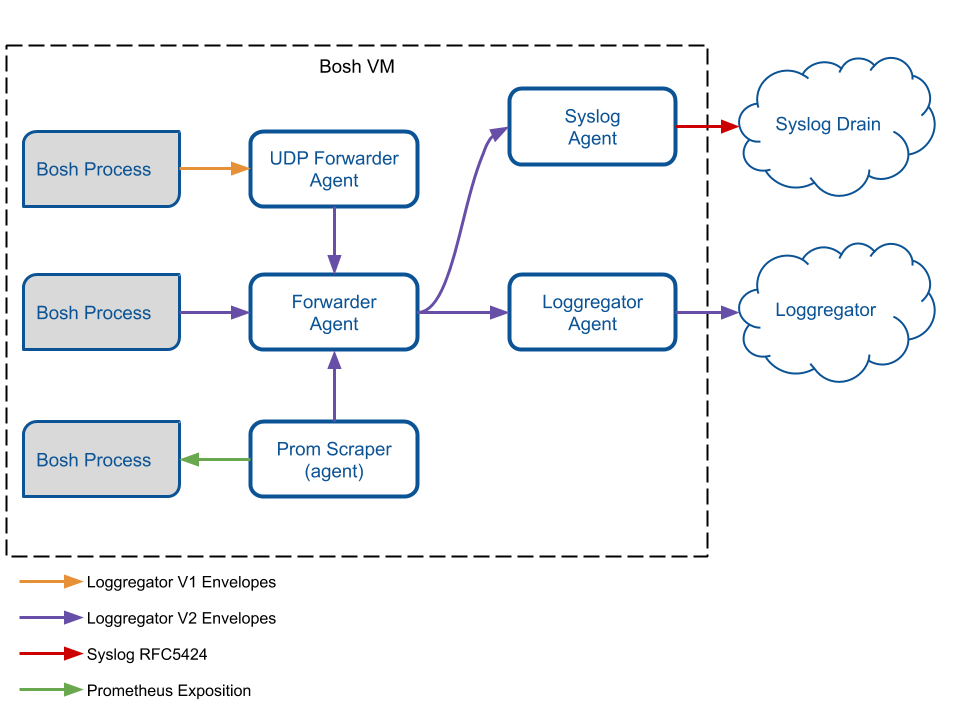
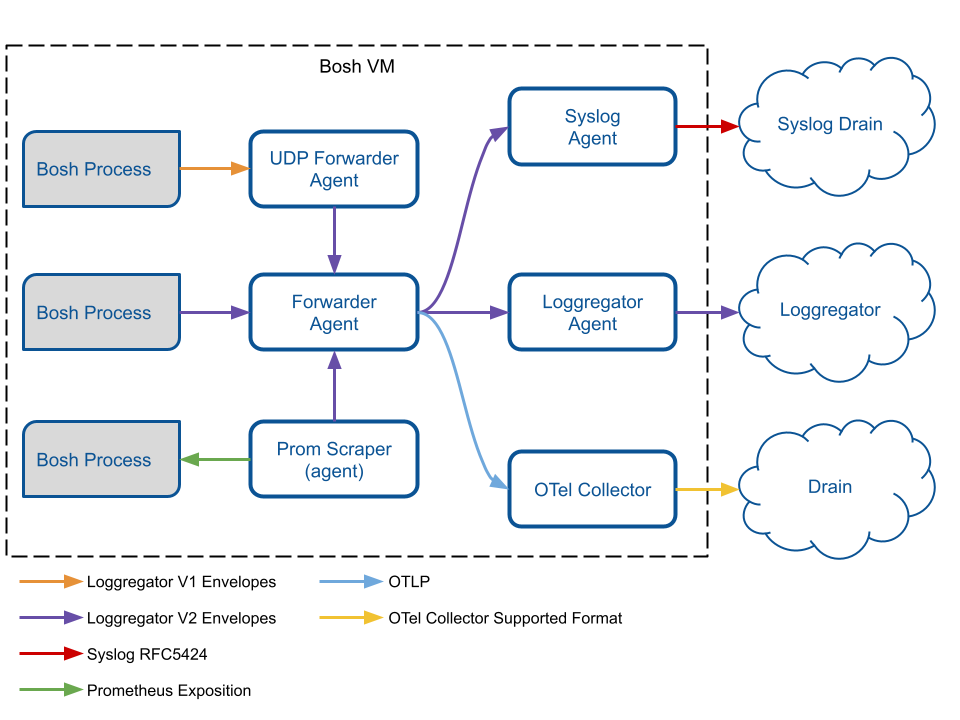
Edit README to add OTel Collector info

diff --git a/README.md b/README.md
@@ -34,6 +34,10 @@ A simple agent that reads from any local prometheus-scrapable endpoint and forwa
 Configurable via files in colocated bosh jobs as described in the [docs][prom-scraper]
 scrapes are avoided in an HA environment.
 
+### OTel Collector
+This is the Cloud Foundry distribution of the OTel Collector. It accepts metrics in OTLP format and forwards them to any configured exporters.
+More information can be found in the [OpenTelemetry docs](https://opentelemetry.io/docs/collector)
+
 ## More Resources and Documentation
 
 ### Feedback
